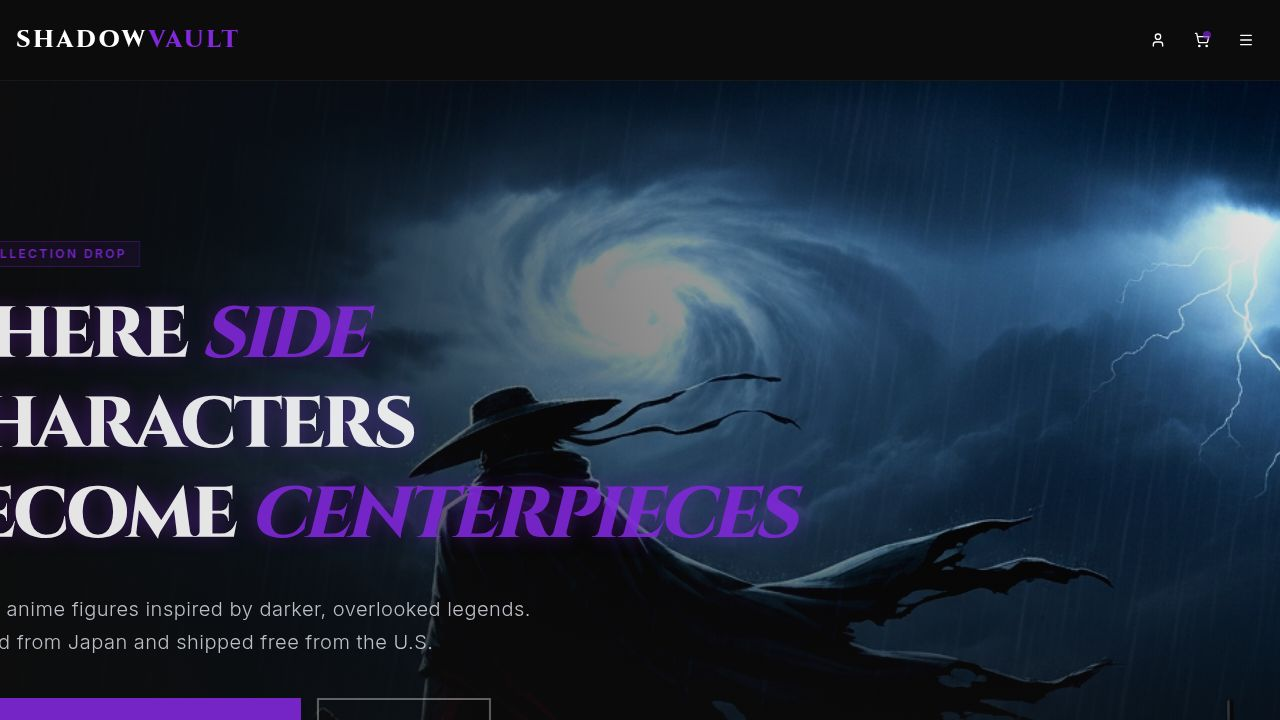
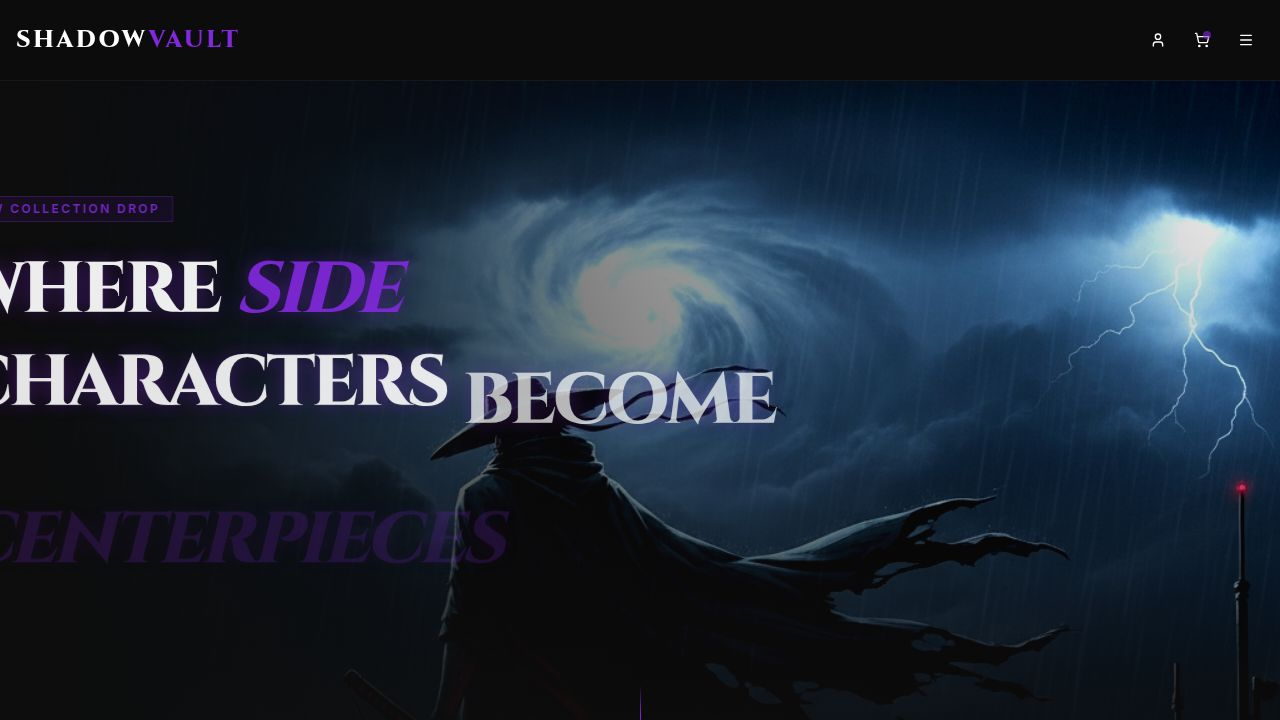
Animate hero section text and make it fill the screen
Update the home page hero section to display text word-by-word with animations and adjust layout to fill the entire screen height (`h-screen`).

Replit-Commit-Author: Agent
Replit-Commit-Session-Id: 26c40b11-4ae2-4244-8aaa-11b36670c4a1
Replit-Commit-Checkpoint-Type: full_checkpoint
Replit-Commit-Event-Id: dc79b932-d0cb-43c3-9bdf-2232295a9393
Replit-Commit-Screenshot-Url: https://storage.googleapis.com/screenshot-production-us-central1/8648d69b-8b6a-4dcc-8ad8-7741b681684e/26c40b11-4ae2-4244-8aaa-11b36670c4a1/B0SDfUc
Replit-Helium-Checkpoint-Created: true

diff --git a/client/src/pages/home.tsx b/client/src/pages/home.tsx
@@ -20,9 +20,9 @@ export default function Home() {
   return (
     <Layout>
       {/* Hero Section - LANDING ONLY */}
-      <section className="relative min-h-[90vh] py-20 w-full overflow-hidden flex items-center">
+      <section className="relative h-screen min-h-[700px] w-full overflow-hidden flex items-center">
         {/* Background Image with Overlay */}
-        <div className="absolute inset-0 z-0 scale-110">
+        <div className="absolute inset-0 z-0">
           <img 
             src={heroImage} 
             alt="Dark Anime Swordsman" 
@@ -38,24 +38,38 @@ export default function Home() {
             <span className="inline-block py-1 px-3 border border-primary/30 bg-primary/10 text-primary text-xs font-bold tracking-[0.2em] uppercase mb-6 backdrop-blur-sm">
               New Collection Drop
             </span>
-            <h1 className="text-5xl md:text-7xl font-heading font-black text-white leading-tight mb-8 text-glow uppercase tracking-tighter">
-              Where <span className="text-primary italic">side</span> characters <br/>
-              become <span className="text-primary italic">centerpieces</span>
+            <h1 className="text-5xl md:text-7xl font-heading font-black text-white leading-tight mb-8 text-glow uppercase tracking-tighter flex flex-wrap gap-x-4">
+              {"Where side characters become centerpieces".split(" ").map((word, i) => (
+                <span 
+                  key={i} 
+                  className="inline-block animate-in fade-in slide-in-from-bottom duration-500 fill-mode-both"
+                  style={{ animationDelay: `${i * 150}ms` }}
+                >
+                  {word === "side" || word === "centerpieces" ? (
+                    <span className="text-primary italic">{word}</span>
+                  ) : word}
+                </span>
+              ))}
             </h1>
-            <p className="text-lg md:text-xl text-gray-300 mb-10 max-w-2xl leading-relaxed font-light tracking-wide">
-              Curated anime figures inspired by darker, overlooked legends. Imported from Japan and shipped free from the U.S.
-            </p>
-            <div className="flex flex-col sm:flex-row gap-4">
-              <Link href="/shop">
-                <Button size="lg" className="bg-primary hover:bg-primary/90 text-white rounded-none px-8 h-16 text-lg tracking-[0.2em] uppercase font-black w-full sm:w-auto cursor-pointer border-2 border-primary transition-all hover:scale-105">
-                  Step into the shadows
-                </Button>
-              </Link>
-              <Link href="/reviews">
-                <Button size="lg" variant="outline" className="border-white/40 text-white hover:bg-white/10 hover:text-white rounded-none px-8 h-16 text-lg tracking-[0.2em] uppercase bg-transparent backdrop-blur-md w-full sm:w-auto cursor-pointer border-2 transition-all hover:scale-105">
-                  Reviews
-                </Button>
-              </Link>
+            <div 
+              className="animate-in fade-in slide-in-from-bottom duration-1000 fill-mode-both"
+              style={{ animationDelay: "1.2s" }}
+            >
+              <p className="text-lg md:text-xl text-gray-300 mb-10 max-w-2xl leading-relaxed font-light tracking-wide">
+                Curated anime figures inspired by darker, overlooked legends. Imported from Japan and shipped free from the U.S.
+              </p>
+              <div className="flex flex-col sm:flex-row gap-4">
+                <Link href="/shop">
+                  <Button size="lg" className="bg-primary hover:bg-primary/90 text-white rounded-none px-8 h-16 text-lg tracking-[0.2em] uppercase font-black w-full sm:w-auto cursor-pointer border-2 border-primary transition-all hover:scale-105">
+                    Step into the shadows
+                  </Button>
+                </Link>
+                <Link href="/reviews">
+                  <Button size="lg" variant="outline" className="border-white/40 text-white hover:bg-white/10 hover:text-white rounded-none px-8 h-16 text-lg tracking-[0.2em] uppercase bg-transparent backdrop-blur-md w-full sm:w-auto cursor-pointer border-2 transition-all hover:scale-105">
+                    Reviews
+                  </Button>
+                </Link>
+              </div>
             </div>
           </div>
         </div>
